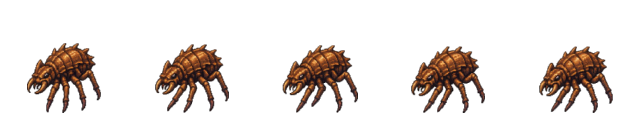
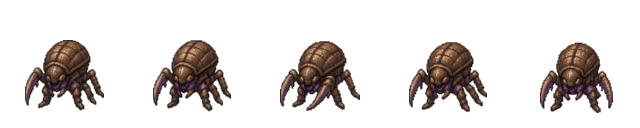
art: 유닛 21종 스프라이트 적용
art-src의 시트를 dealpha(--shadow) → slice-sheet로 처리해 42장을 만들고
매니페스트에 등록했다. wingswarm 걷기와 spinetentacle 공격은 프레임이
붙어서 검출돼 --frames 5로 균등 분할했다. 건물 4종은 idle+attack.

게임 크기(60px)로 한눈에 보는 확인용 페이지 _review.html 추가.
남은 것: burrower, 기지 확정본, 일꾼, 미네랄.

Claude-Session: https://claude.ai/code/session_01NexbDPSAtwGDSwo3StwTsK

diff --git a/packages/client/public/_review.html b/packages/client/public/_review.html
@@ -1,0 +1,55 @@
+<meta charset="utf-8">
+<title>스프라이트 확인</title>
+<style>
+  body { background:#2f7d4f; color:#fff; font:13px sans-serif; margin:0; padding:14px 18px; }
+  h2 { margin:16px 0 8px; font-size:14px; letter-spacing:.04em; }
+  .row { display:flex; flex-wrap:wrap; gap:8px; }
+  .c { width:150px; background:rgba(0,0,0,.18); border-radius:6px; padding:6px 0 5px; text-align:center; }
+  .f { display:flex; justify-content:center; align-items:flex-end; gap:6px; height:64px; }
+  .cell { width:60px; height:60px; background-repeat:no-repeat; image-rendering:pixelated; }
+  .n { font-size:11px; opacity:.9; margin-top:4px; }
+  .k { font-size:10px; opacity:.5; }
+</style>
+<div id="out"></div>
+<script>
+const NAMES = { rifleman:'소총병', scoutcar:'정찰차', flamer:'화염병', bulwark:'방벽',
+  ironwalker:'강철거인', siegetank:'공성전차', gunship:'전투비행선',
+  gnawer:'물어뜯는것', spitter:'가시뱉는것', tunneler:'굴착충', spinetentacle:'가시촉수',
+  sporetentacle:'포자촉수', wingswarm:'날개무리', devourer:'거대포식자',
+  zealot:'광전사', lightpylon:'빛기둥', strider:'사격보행기', shade:'그림자',
+  mystic:'술사', fusionite:'융합체', skiff:'부유선' };
+const GROUPS = {
+  '기갑단': ['rifleman','scoutcar','flamer','bulwark','ironwalker','siegetank','gunship'],
+  '군체':   ['gnawer','spitter','tunneler','spinetentacle','sporetentacle','wingswarm','devourer'],
+  '신념단': ['zealot','lightpylon','strider','shade','mystic','fusionite','skiff'],
+};
+// 게임과 같은 크기: 128px 셀을 60px 높이로 그린다
+const H = 60, CELL = 128, S = H / CELL;
+fetch('art/manifest.json').then(r => r.json()).then(m => {
+  let html = '';
+  for (const [g, list] of Object.entries(GROUPS)) {
+    html += '<h2>' + g + '</h2><div class="row">';
+    for (const u of list) {
+      const a = m.units[u];
+      if (!a) {
+        html += '<div class="c"><div class="f"></div><div class="n">' + NAMES[u]
+             +  ' <span class="k">없음</span></div></div>';
+        continue;
+      }
+      const move = a.walk ? 'walk' : 'idle';
+      html += '<div class="c"><div class="f">';
+      for (const pair of [[move, 0], ['attack', 2]]) {
+        const url = 'art/units/' + u + '.' + pair[0] + '.png';
+        html += '<div class="cell" style="background-image:url(\'' + url + '\');'
+             +  'background-size:' + (CELL * 5 * S) + 'px ' + (CELL * S) + 'px;'
+             +  'background-position:-' + (pair[1] * CELL * S) + 'px 0"></div>';
+      }
+      html += '</div><div class="n">' + NAMES[u] + '</div>'
+           +  '<div class="k">' + move + ' · attack</div></div>';
+    }
+    html += '</div>';
+  }
+  document.getElementById('out').innerHTML = html;
+  document.title = 'ready';
+});
+</script>

diff --git a/docs/ART_ORDERS.md b/docs/ART_ORDERS.md
@@ -83,32 +83,32 @@
 
 기갑단 (steel)
 - [x] `rifleman` 소총병 — **화풍 기준 확정** ✅
-- [ ] `scoutcar` 정찰차
-- [ ] `flamer` 화염병
-- [ ] `bulwark` 방벽 *(건물)*
-- [ ] `ironwalker` 강철거인
-- [ ] `siegetank` 공성전차
-- [ ] `gunship` 전투비행선 *(공중)*
+- [x] `scoutcar` 정찰차
+- [x] `flamer` 화염병
+- [x] `bulwark` 방벽 *(건물)*
+- [x] `ironwalker` 강철거인
+- [x] `siegetank` 공성전차
+- [x] `gunship` 전투비행선 *(공중)*
 - [ ] ~~`carpetbomb` 융단폭격~~ *(주문 — 유닛 아트 없음)*
 
 군체 (swarmhive)
-- [ ] `gnawer` 물어뜯는것
-- [ ] `spitter` 가시뱉는것
-- [ ] `tunneler` 굴착충
-- [ ] `spinetentacle` 가시촉수 *(건물)*
+- [x] `gnawer` 물어뜯는것
+- [x] `spitter` 가시뱉는것
+- [x] `tunneler` 굴착충
+- [x] `spinetentacle` 가시촉수 *(건물)*
 - [ ] `burrower` 땅속의것
-- [ ] `sporetentacle` 포자촉수 *(건물)*
-- [ ] `wingswarm` 날개무리 *(공중)*
-- [ ] `devourer` 거대포식자
+- [x] `sporetentacle` 포자촉수 *(건물)*
+- [x] `wingswarm` 날개무리 *(공중)*
+- [x] `devourer` 거대포식자
 
 신념단 (covenant)
-- [ ] `zealot` 광전사
-- [ ] `lightpylon` 빛기둥 *(건물)*
-- [ ] `strider` 사격보행기
-- [ ] `shade` 그림자
-- [ ] `mystic` 술사
-- [ ] `fusionite` 융합체
-- [ ] `skiff` 부유선 *(공중)*
+- [x] `zealot` 광전사
+- [x] `lightpylon` 빛기둥 *(건물)*
+- [x] `strider` 사격보행기
+- [x] `shade` 그림자
+- [x] `mystic` 술사
+- [x] `fusionite` 융합체
+- [x] `skiff` 부유선 *(공중)*
 - [ ] ~~`mindbreak` 정신붕괴~~ *(주문 — 유닛 아트 없음)*
 
 유닛 외
